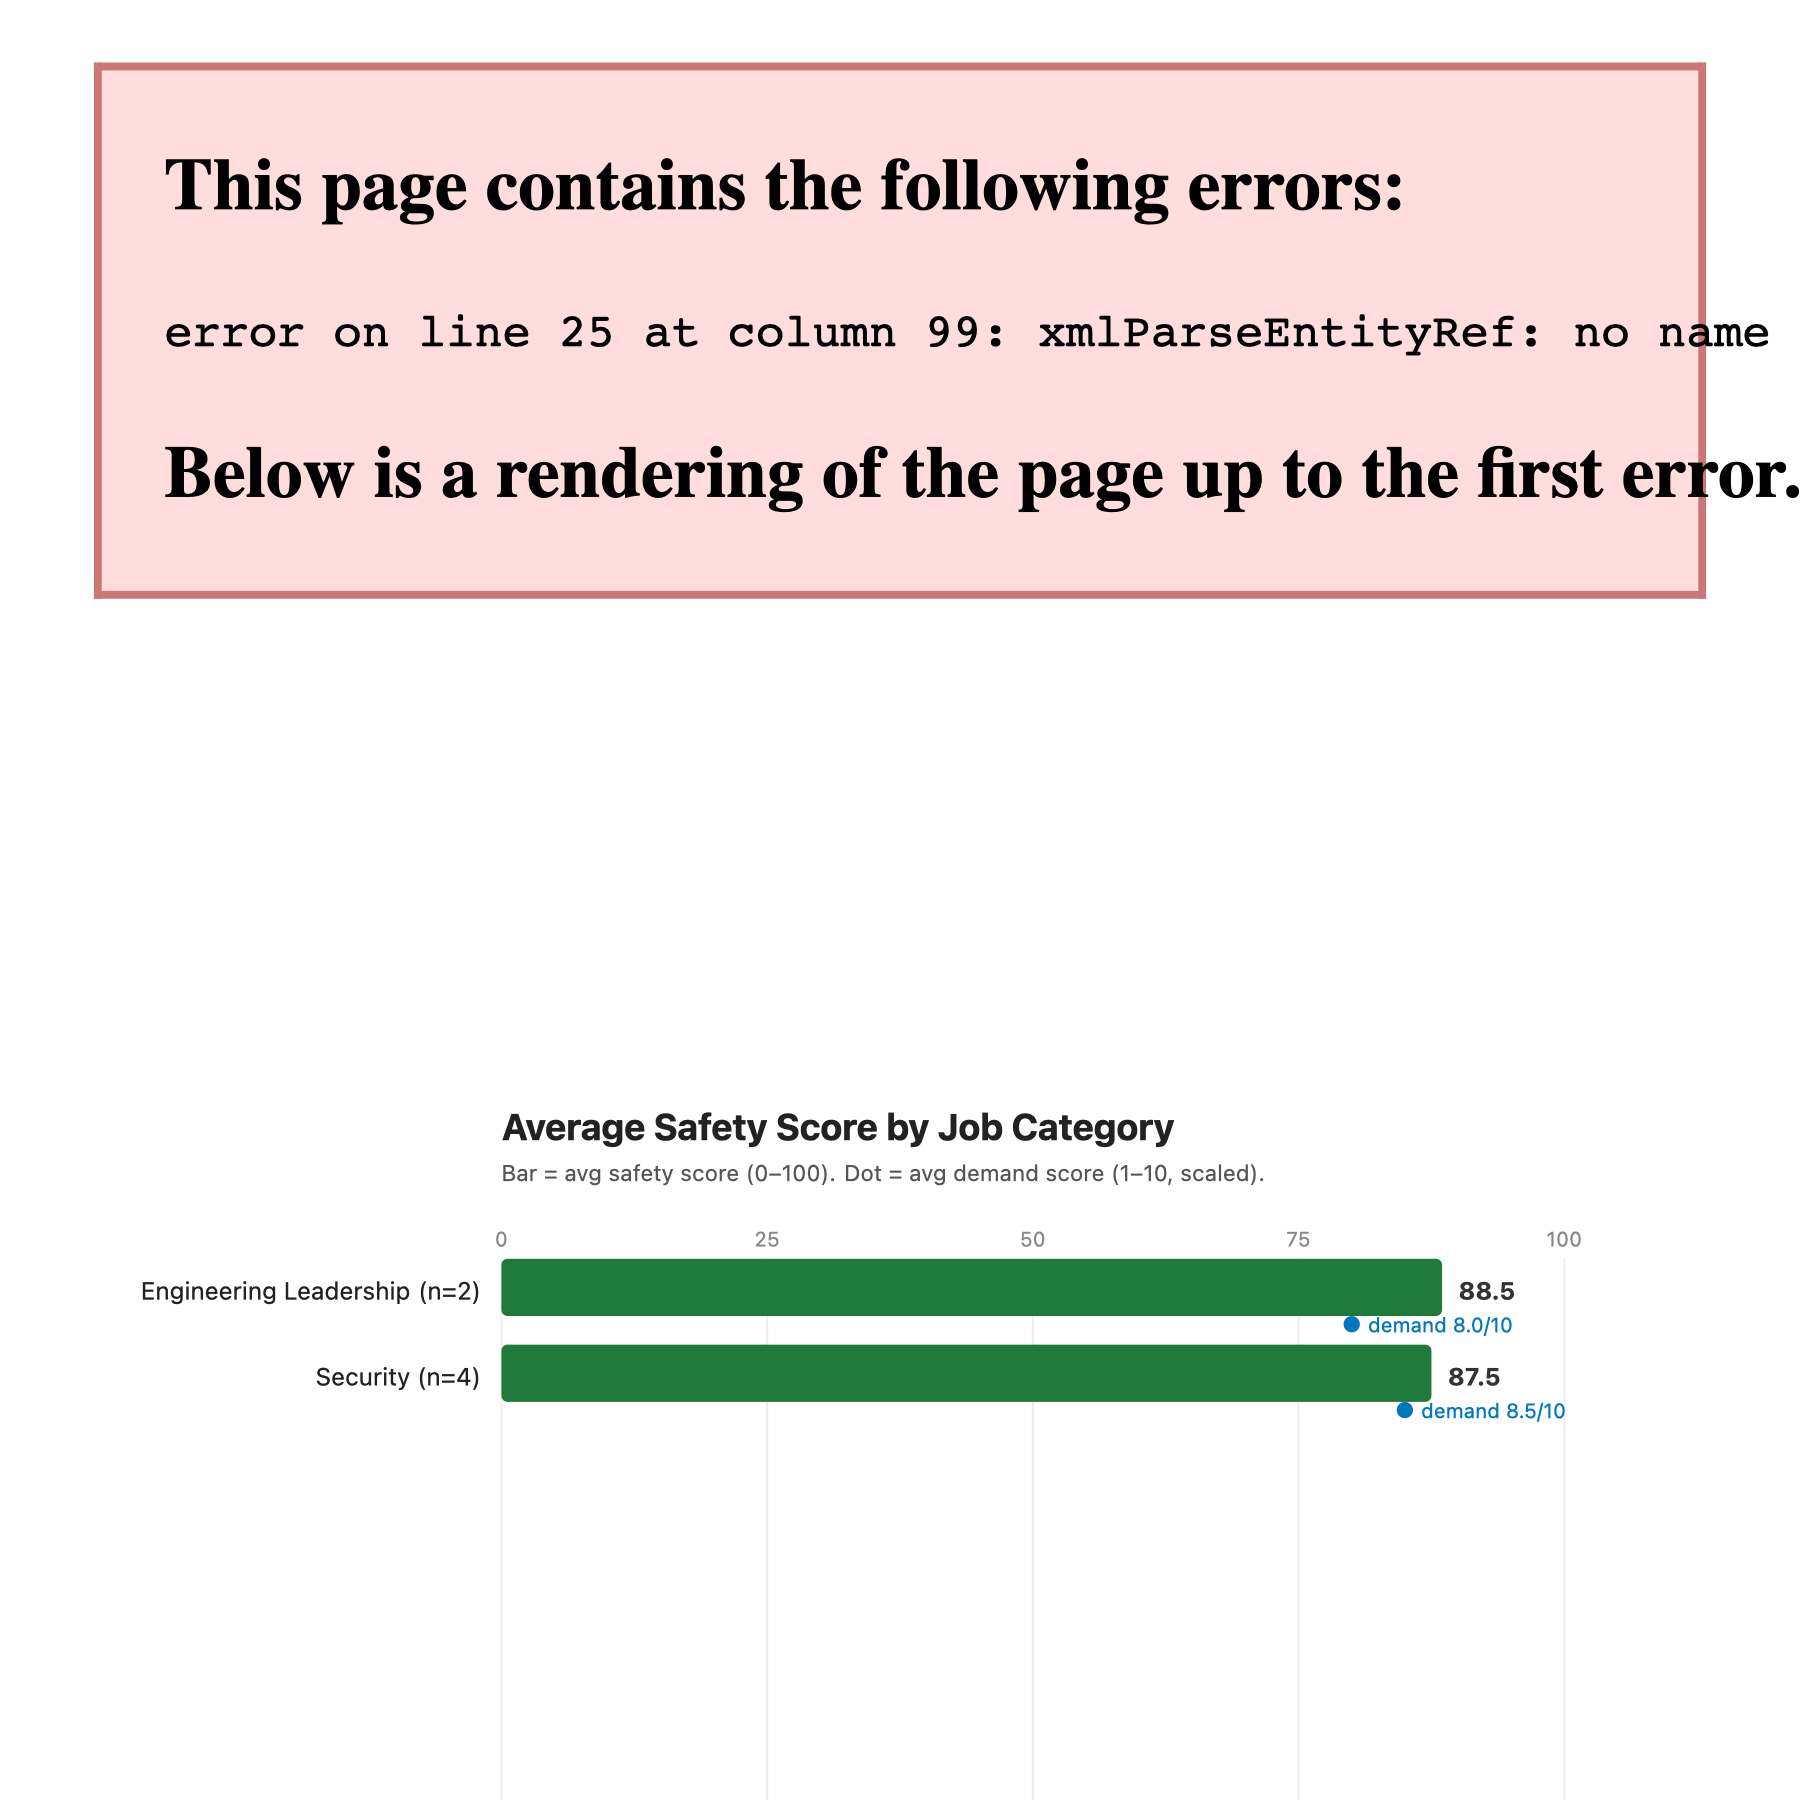
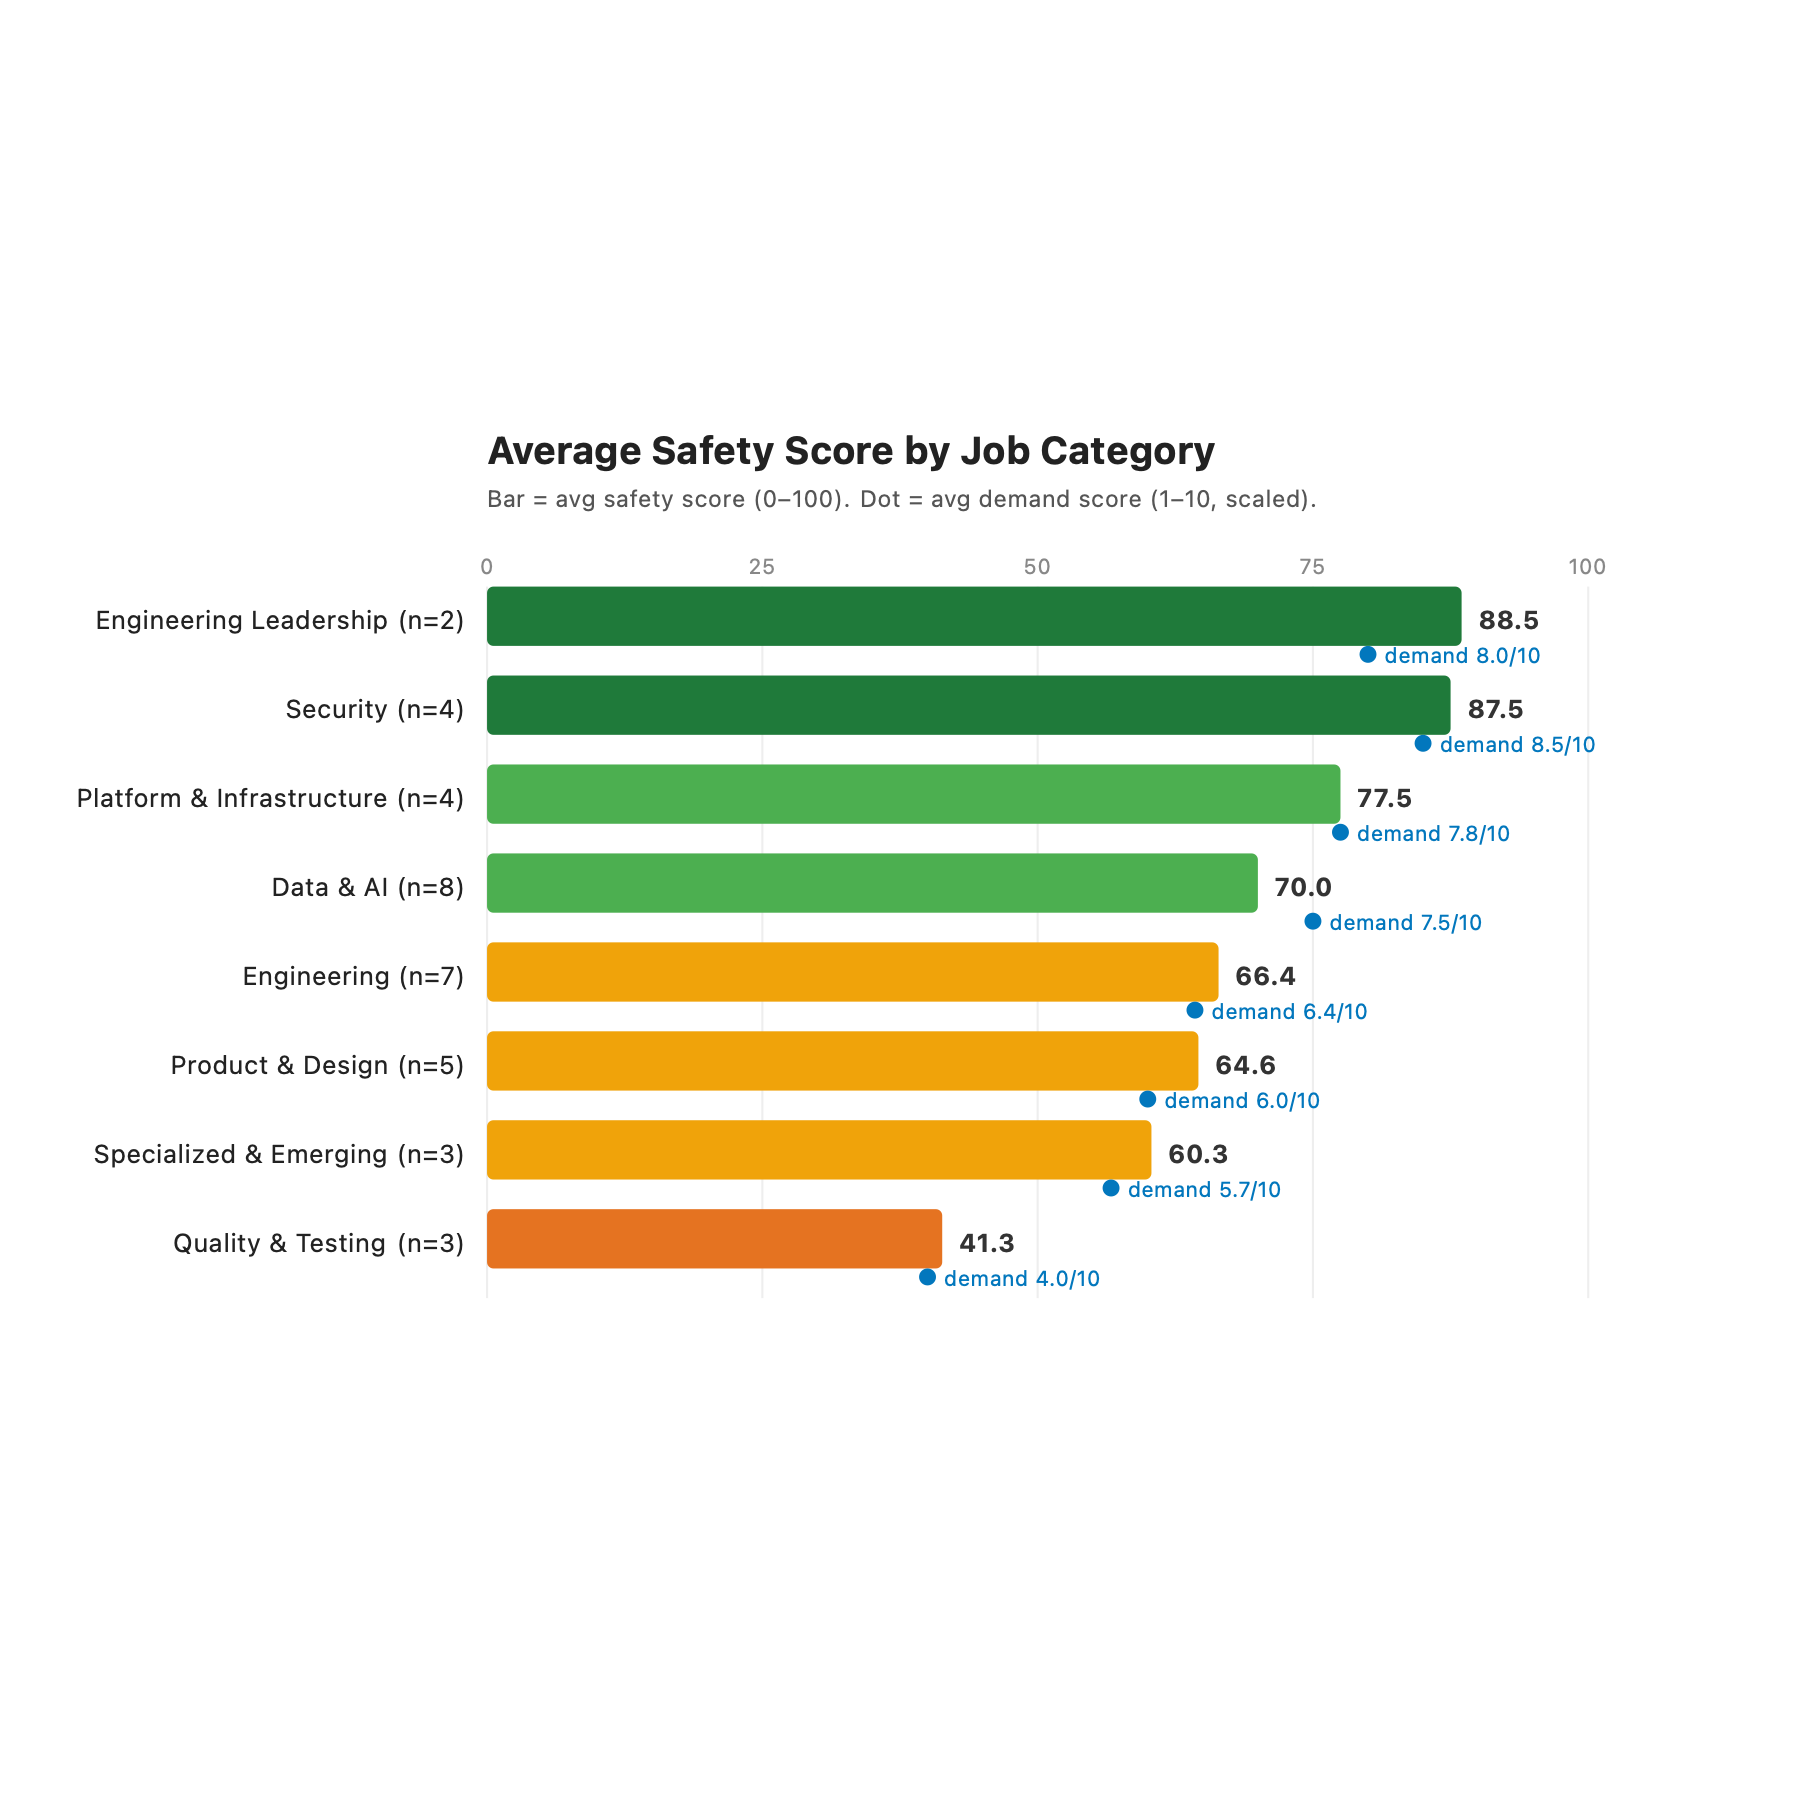
Escape XML special chars in SVG text labels
Category names like "Data & AI" wrote a bare ampersand into SVG
<text> elements, producing xmlParseEntityRef errors when browsers
parsed the file. Wrap all label content through xml_escape so &,
<, and > become &amp;, &lt;, &gt;.

diff --git a/scripts/visualization/generate_charts.py b/scripts/visualization/generate_charts.py
@@ -61,9 +61,15 @@ def svg_close():
     return "</svg>\n"
 
 
+def xml_escape(s):
+    return (str(s).replace("&", "&amp;")
+                  .replace("<", "&lt;")
+                  .replace(">", "&gt;"))
+
+
 def text(x, y, s, *, size=12, color="#222", weight="normal", anchor="start"):
     return (f'<text x="{x}" y="{y}" font-size="{size}" fill="{color}" '
-            f'font-weight="{weight}" text-anchor="{anchor}">{s}</text>\n')
+            f'font-weight="{weight}" text-anchor="{anchor}">{xml_escape(s)}</text>\n')
 
 
 def rect(x, y, w, h, fill, *, stroke=None, rx=0):
